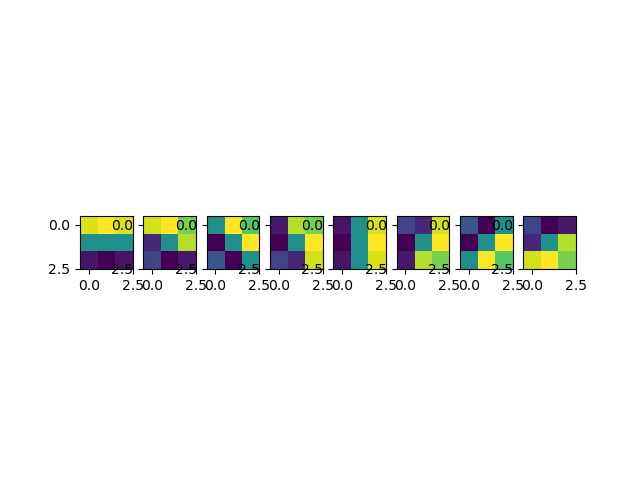
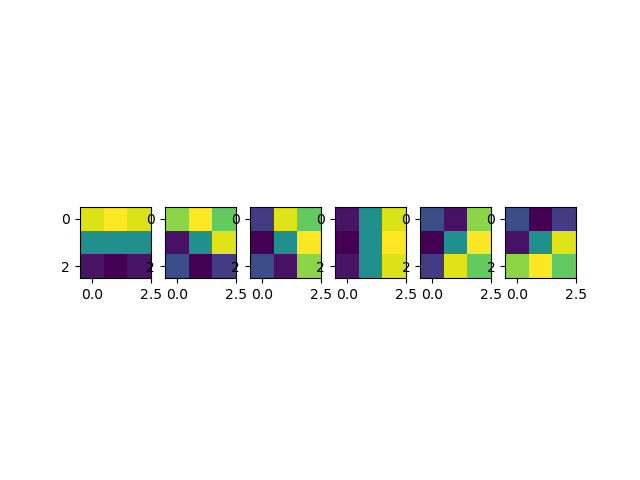
Added non max suppression for 6 filters

Changed region(s): [[0.0938, 0.4062, 0.9375, 0.625], [0.0938, 0.5312, 0.125, 0.5625]]

diff --git a/src/methods/oriented_edge_features.py b/src/methods/oriented_edge_features.py
@@ -162,8 +162,23 @@ def non_max_suppression(img,angle, nb_angle=8):
                      (np.array([[0, 0, 0], [-1, 1, 0], [0, 0, 0]]), np.array([[0, 0, 0], [0, 1, -1], [0, 0, 0]])),
                      (np.array([[-1, 0, 0], [0, 1, 0], [0, 0, 0]]), np.array([[0, 0, 0], [0, 1, 0], [0, 0, -1]])),
                      ]
+    elif nb_angle == 6:
+        dict_conv = [(np.array([[0, 0, 0], [0, 1, 0], [0, -1, 0]]), np.array([[0, -1, 0], [0, 1, 0], [0, 0, 0]])),
+                     (np.array([[0, 0, 0], [0, 1, 0], [-1 + np.cos(np.pi/6), -np.cos(np.pi/6), 0]]),
+                      np.array([[0, -np.cos(np.pi/6), -1 + np.cos(np.pi/6)], [0, 1, 0], [0, 0, 0]])),
+                     (np.array([[0, 0, 0], [-np.cos(np.pi/6), 1, 0], [-1 + np.cos(np.pi/6), 0, 0]]),
+                      np.array([[0, 0, -1 + np.cos(np.pi/6)], [0, 1, -np.cos(np.pi/6)], [0, 0, 0]])),
+                     (np.array([[0, 0, 0], [-1, 1, 0], [0, 0, 0]]), np.array([[0, 0, 0], [0, 1, -1], [0, 0, 0]])),
+                     (np.array([[-1 + np.cos(np.pi / 6), 0, 0], [-np.cos(np.pi / 6), 1, 0], [0, 0, 0]]),
+                      np.array([[0, 0, 0], [0, 1, -np.cos(np.pi / 6)], [0, 0, -1 + np.cos(np.pi / 6)]])),
+                     (np.array([[-1 + np.cos(np.pi / 6), -np.cos(np.pi / 6), 0], [0, 1, 0], [0, 0, 0]]),
+                      np.array([[0, 0, 0], [0, 1, 0], [0, -np.cos(np.pi / 6), -1 + np.cos(np.pi / 6)]])),
+                     ]
+
 
     conv1, conv2 = dict_conv[angle]
+    print(conv1)
+    print(conv2)
     img_bool = signal.convolve2d(img, conv1, boundary='symm', mode='same') > 0
     img_bool *= signal.convolve2d(img, conv2, boundary='symm', mode='same') >0
 
@@ -196,7 +211,7 @@ class multi_level_energy_features():
         # Apply non max suppression to the square of the transformed images (unsigned gradient)
         for i,im in enumerate(energy_img):
             if self.non_max:
-                energy_img[i] = non_max_suppression(im**2,i)
+                energy_img[i] = non_max_suppression(im**2,i, len(self.filters))
             else :
                 energy_img[i] = im**2
 
@@ -313,7 +328,7 @@ def main():
     plt.savefig('gray_img.png')
 
     # Create and visualize filters
-    filters = create_filters(8,3,1,lambda x,y : f2(x,y,sigma=1,l=3,C=1))
+    filters = create_filters(6,3,1,lambda x,y : f2(x,y,sigma=1,l=3,C=1))
     print(filters[0])
     fig, ax = plt.subplots(1, len(filters))
     for i,z in enumerate(filters):
@@ -331,12 +346,13 @@ def main():
     # Apply non max suppression and visualize
     fig, ax = plt.subplots(1, len(filters))
     for i,img in enumerate(transformed_images):
-        z = non_max_suppression(img**2,i)
+        z = non_max_suppression(img**2,i, len(filters))
         ax[i].imshow(z)
     plt.savefig('nms.png')
+    1/0
 
     # Create a transformation instance MLEF
-    mlef = multi_level_energy_features(16,filters, 15, 0.5)
+    mlef = multi_level_energy_features(16,filters)
     features = mlef.transform_rgb(im)
     print(features.shape)
     plt.figure(); plt.plot(features); plt.savefig('mlef.png')
